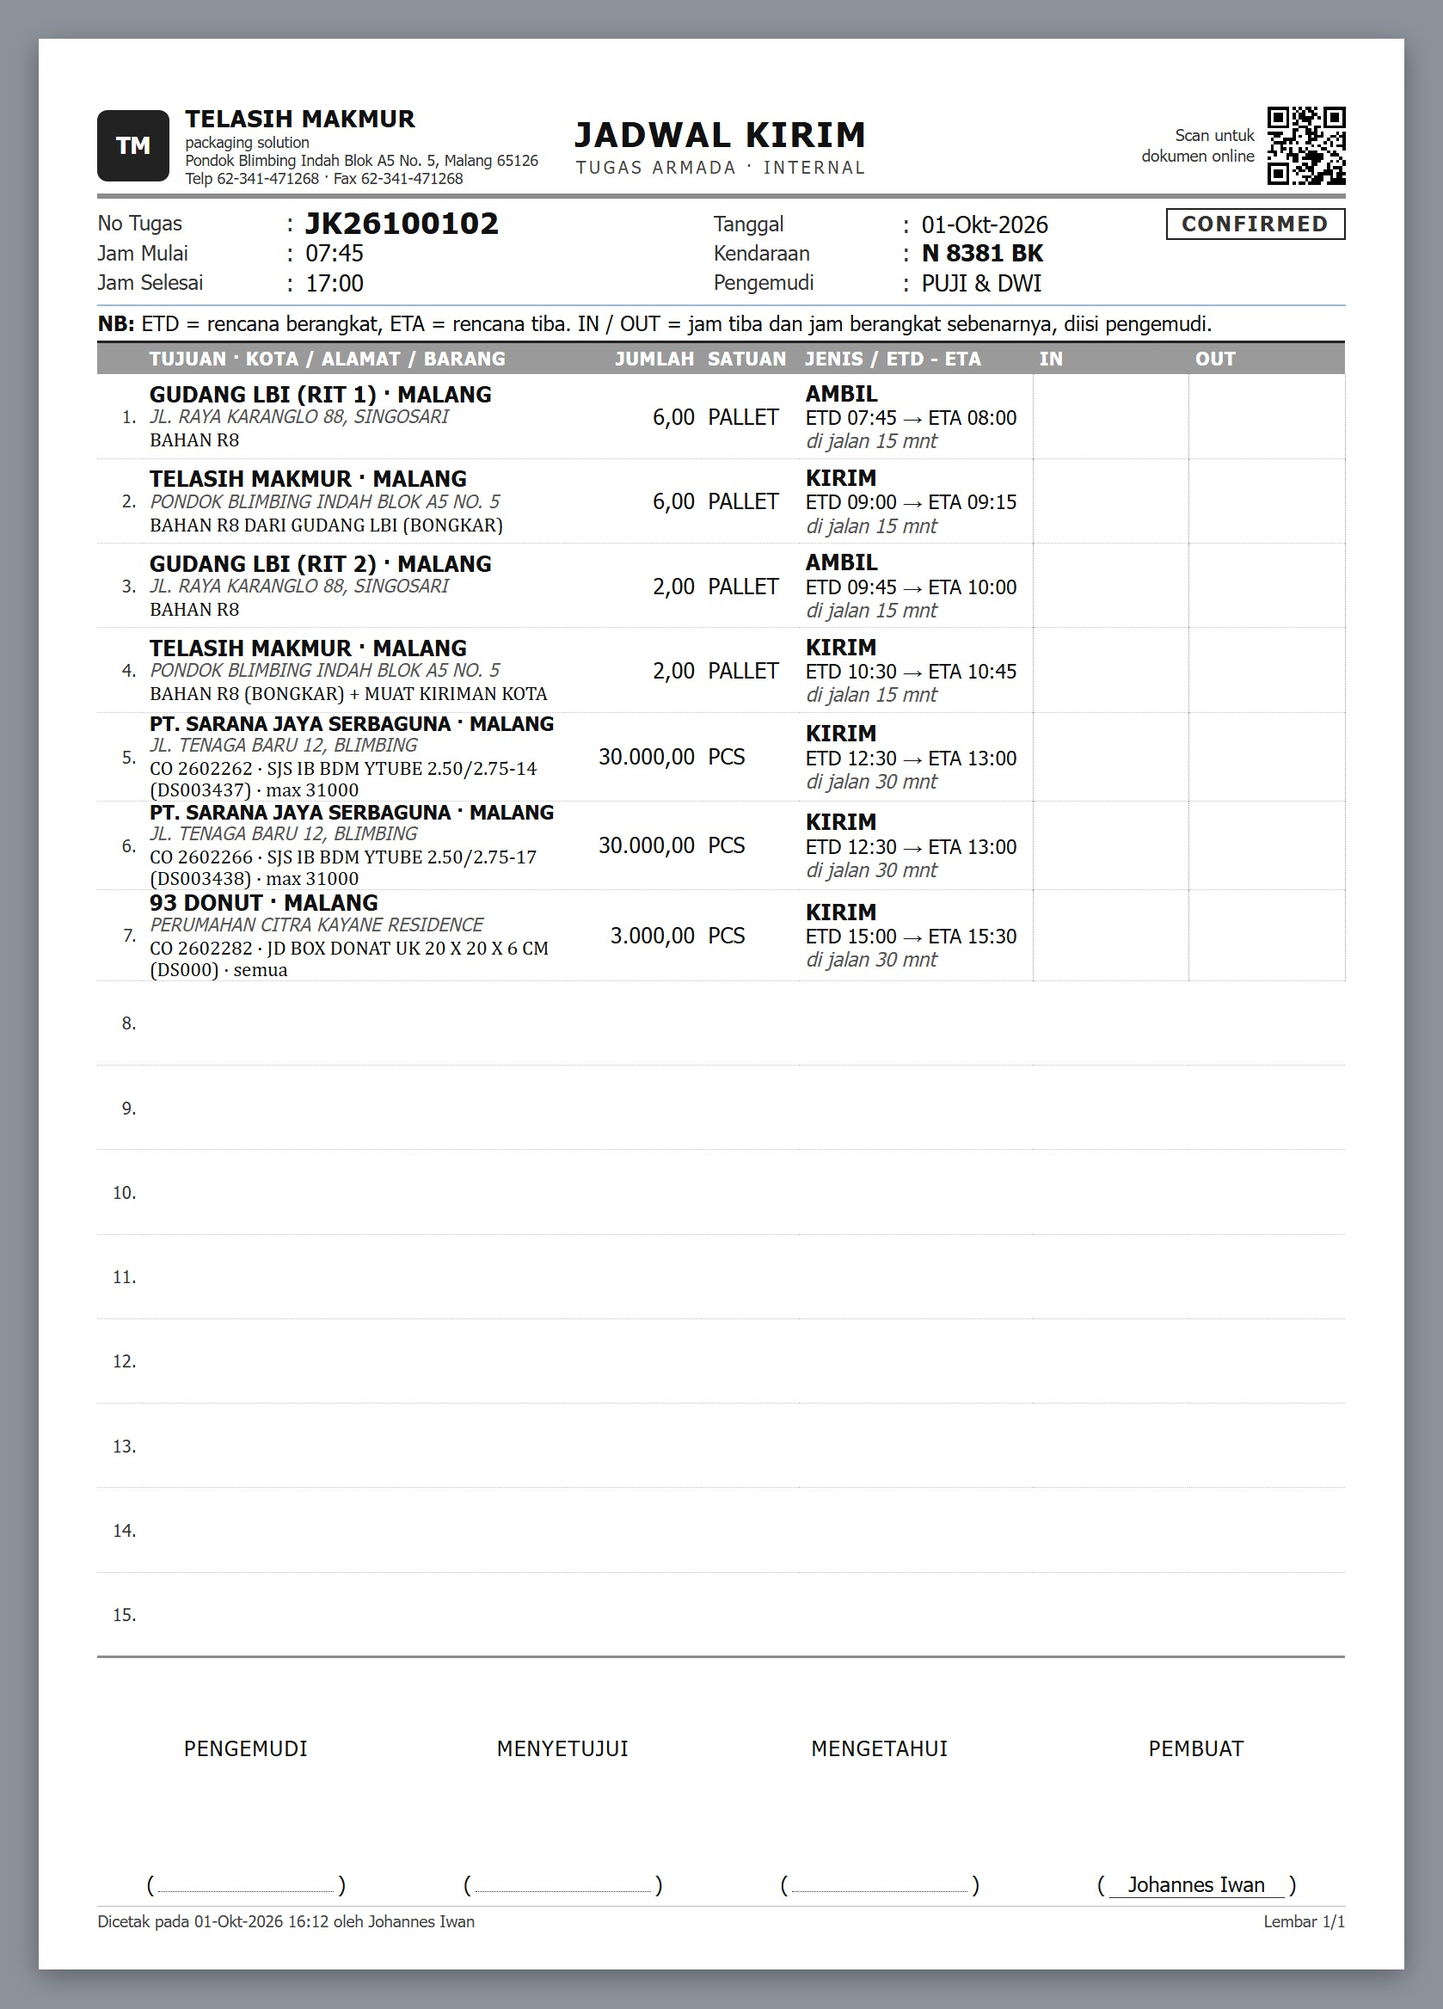
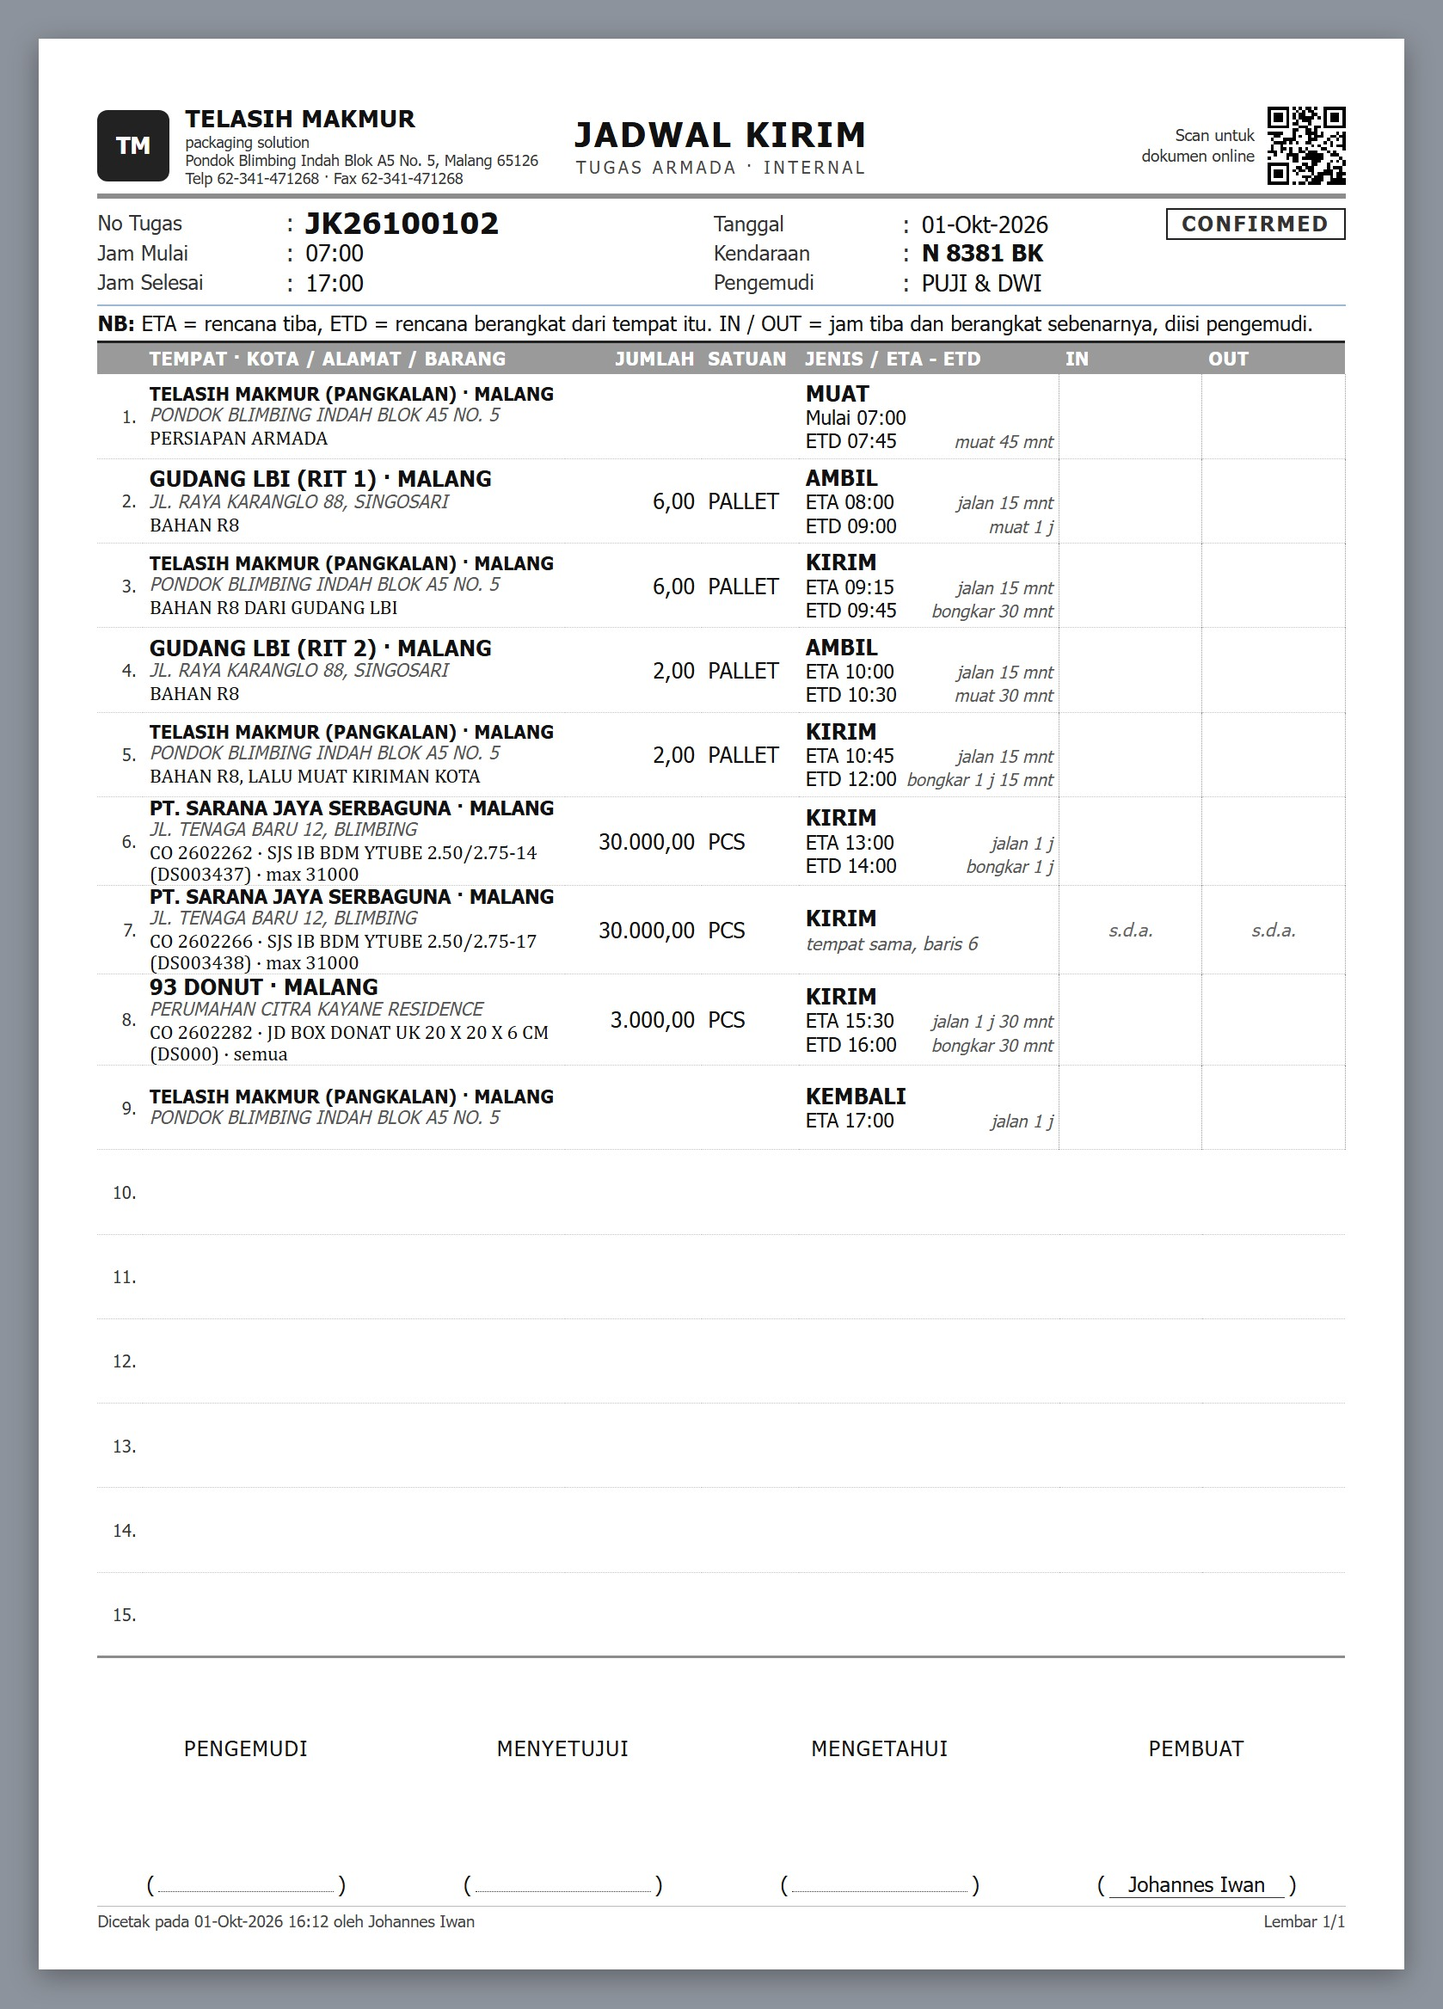
Print mockups: Jadwal Kirim time model — ETA and ETD per stop, base has only ETD, return only ETA
User correction 2026-10-01 (rulebook C.24): the first row is the base (loading, then ETD), every destination has an
ETA and an ETD (after unloading), the last row is the return (ETA). Road time and loading / unloading time are computed.
Extra goods at the same place print 'tempat sama' instead of repeating the times.

diff --git a/docs/mockups/print_doc/samples.js b/docs/mockups/print_doc/samples.js
@@ -83,34 +83,37 @@ const SAMPLES = {
             ],
         },
     },
-    // Alamat di contoh ini adalah data contoh (di aplikasi: alamat kirim customer / alamat supplier dari master).
+    // Alamat dan jam di contoh ini adalah data contoh (di aplikasi: alamat kirim customer / alamat supplier dari master).
+    // Baris pertama = pangkalan (hanya ETD), baris terakhir = kembali (hanya ETA); `same` = barang lain di tempat yang sama.
     JadwalKirim: {
-        data: {...PRINTED, number: 'JK26100101', date: '2026-10-01', status: 'CONFIRMED', start_time: '09:30', finish_time: '18:00', createdBy: 'Johannes Iwan',
+        data: {...PRINTED, number: 'JK26100101', date: '2026-10-01', status: 'CONFIRMED', start_time: '07:30', finish_time: '15:30', createdBy: 'Johannes Iwan',
             driver: 'TRIO & AGUNG', party: {name: 'N 8035 AB'},
             rows: [
-                {kind: 'AMBIL', etd: '09:30', eta: '10:15', place: 'GUDANG LBI', city: 'MALANG', address: 'JL. RAYA KARANGLO 88, SINGOSARI', item: 'BAHAN R8', qty: 2, unit: 'PALLET'},
-                {kind: 'KIRIM', etd: '10:45', eta: '12:30', place: 'PT SELATAN JADI JAYA', city: 'SIDOARJO', address: 'JL. RAYA PANJUNAN 8 SUKODONO', item: 'SJJ IB ROSSI FS GTZ-5S MF (12V5AH) DS001708', co_no: '2602377', qty: 3000, unit: 'PCS', note: 'max 3100'},
-                {kind: 'KIRIM', etd: '10:45', eta: '12:30', place: 'PT SELATAN JADI JAYA', city: 'SIDOARJO', address: 'JL. RAYA PANJUNAN 8 SUKODONO', item: 'SJJ IB ND NIPPONDENSO FS GTZ-5S MF (12V5AH) DS001639', co_no: '2602381', qty: 1000, unit: 'PCS', note: 'max 1100'},
-                {kind: 'AMBIL', etd: '10:45', eta: '12:30', place: 'PT SELATAN JADI JAYA', city: 'SIDOARJO', address: 'JL. RAYA PANJUNAN 8 SUKODONO', item: 'TAGIHAN & GIRO'},
-                {kind: 'KIRIM', etd: '13:30', eta: '14:00', place: 'GOLDEN (SUBKON PAK TASMAN)', city: 'PASURUAN', address: 'JL. RAYA PANDAAN KM 3', item: 'BARANG SUBKON', qty: 7840, unit: 'PCS', note: 'semua'}]},
-        alt: {...PRINTED, number: 'JK26100102', date: '2026-10-01', status: 'CONFIRMED', start_time: '07:45', finish_time: '17:00', createdBy: 'Johannes Iwan',
+                {kind: 'MUAT', start: '07:30', etd: '09:00', place: 'TELASIH MAKMUR (PANGKALAN)', city: 'MALANG', address: 'PONDOK BLIMBING INDAH BLOK A5 NO. 5', item: 'MUAT KIRIMAN PT SELATAN JADI JAYA'},
+                {kind: 'AMBIL', eta: '09:30', etd: '10:00', place: 'GUDANG LBI', city: 'MALANG', address: 'JL. RAYA KARANGLO 88, SINGOSARI', item: 'BAHAN R8', qty: 2, unit: 'PALLET'},
+                {kind: 'KIRIM', eta: '12:00', etd: '13:30', place: 'PT SELATAN JADI JAYA', city: 'SIDOARJO', address: 'JL. RAYA PANJUNAN 8 SUKODONO', item: 'SJJ IB ROSSI FS GTZ-5S MF (12V5AH) DS001708', co_no: '2602377', qty: 3000, unit: 'PCS', note: 'max 3100'},
+                {kind: 'KIRIM', same: true, place: 'PT SELATAN JADI JAYA', city: 'SIDOARJO', address: 'JL. RAYA PANJUNAN 8 SUKODONO', item: 'SJJ IB ND NIPPONDENSO FS GTZ-5S MF (12V5AH) DS001639', co_no: '2602381', qty: 1000, unit: 'PCS', note: 'max 1100'},
+                {kind: 'KEMBALI', eta: '15:30', place: 'TELASIH MAKMUR (PANGKALAN)', city: 'MALANG', address: 'PONDOK BLIMBING INDAH BLOK A5 NO. 5', item: 'BONGKAR BAHAN R8', qty: 2, unit: 'PALLET'}]},
+        alt: {...PRINTED, number: 'JK26100102', date: '2026-10-01', status: 'CONFIRMED', start_time: '07:00', finish_time: '17:00', createdBy: 'Johannes Iwan',
             driver: 'PUJI & DWI', party: {name: 'N 8381 BK'},
             rows: [
-                {kind: 'AMBIL', etd: '07:45', eta: '08:00', place: 'GUDANG LBI (RIT 1)', city: 'MALANG', address: 'JL. RAYA KARANGLO 88, SINGOSARI', item: 'BAHAN R8', qty: 6, unit: 'PALLET'},
-                {kind: 'KIRIM', etd: '09:00', eta: '09:15', place: 'TELASIH MAKMUR', city: 'MALANG', address: 'PONDOK BLIMBING INDAH BLOK A5 NO. 5', item: 'BAHAN R8 DARI GUDANG LBI (BONGKAR)', qty: 6, unit: 'PALLET'},
-                {kind: 'AMBIL', etd: '09:45', eta: '10:00', place: 'GUDANG LBI (RIT 2)', city: 'MALANG', address: 'JL. RAYA KARANGLO 88, SINGOSARI', item: 'BAHAN R8', qty: 2, unit: 'PALLET'},
-                {kind: 'KIRIM', etd: '10:30', eta: '10:45', place: 'TELASIH MAKMUR', city: 'MALANG', address: 'PONDOK BLIMBING INDAH BLOK A5 NO. 5', item: 'BAHAN R8 (BONGKAR) + MUAT KIRIMAN KOTA', qty: 2, unit: 'PALLET'},
-                {kind: 'KIRIM', etd: '12:30', eta: '13:00', place: 'PT. SARANA JAYA SERBAGUNA', city: 'MALANG', address: 'JL. TENAGA BARU 12, BLIMBING', item: 'SJS IB BDM YTUBE 2.50/2.75-14 (DS003437)', co_no: '2602262', qty: 30000, unit: 'PCS', note: 'max 31000'},
-                {kind: 'KIRIM', etd: '12:30', eta: '13:00', place: 'PT. SARANA JAYA SERBAGUNA', city: 'MALANG', address: 'JL. TENAGA BARU 12, BLIMBING', item: 'SJS IB BDM YTUBE 2.50/2.75-17 (DS003438)', co_no: '2602266', qty: 30000, unit: 'PCS', note: 'max 31000'},
-                {kind: 'KIRIM', etd: '15:00', eta: '15:30', place: '93 DONUT', city: 'MALANG', address: 'PERUMAHAN CITRA KAYANE RESIDENCE', item: 'JD BOX DONAT UK 20 X 20 X 6 CM (DS000)', co_no: '2602282', qty: 3000, unit: 'PCS', note: 'semua'}]},
+                {kind: 'MUAT', start: '07:00', etd: '07:45', place: 'TELASIH MAKMUR (PANGKALAN)', city: 'MALANG', address: 'PONDOK BLIMBING INDAH BLOK A5 NO. 5', item: 'PERSIAPAN ARMADA'},
+                {kind: 'AMBIL', eta: '08:00', etd: '09:00', place: 'GUDANG LBI (RIT 1)', city: 'MALANG', address: 'JL. RAYA KARANGLO 88, SINGOSARI', item: 'BAHAN R8', qty: 6, unit: 'PALLET'},
+                {kind: 'KIRIM', eta: '09:15', etd: '09:45', place: 'TELASIH MAKMUR (PANGKALAN)', city: 'MALANG', address: 'PONDOK BLIMBING INDAH BLOK A5 NO. 5', item: 'BAHAN R8 DARI GUDANG LBI', qty: 6, unit: 'PALLET'},
+                {kind: 'AMBIL', eta: '10:00', etd: '10:30', place: 'GUDANG LBI (RIT 2)', city: 'MALANG', address: 'JL. RAYA KARANGLO 88, SINGOSARI', item: 'BAHAN R8', qty: 2, unit: 'PALLET'},
+                {kind: 'KIRIM', eta: '10:45', etd: '12:00', place: 'TELASIH MAKMUR (PANGKALAN)', city: 'MALANG', address: 'PONDOK BLIMBING INDAH BLOK A5 NO. 5', item: 'BAHAN R8, LALU MUAT KIRIMAN KOTA', qty: 2, unit: 'PALLET'},
+                {kind: 'KIRIM', eta: '13:00', etd: '14:00', place: 'PT. SARANA JAYA SERBAGUNA', city: 'MALANG', address: 'JL. TENAGA BARU 12, BLIMBING', item: 'SJS IB BDM YTUBE 2.50/2.75-14 (DS003437)', co_no: '2602262', qty: 30000, unit: 'PCS', note: 'max 31000'},
+                {kind: 'KIRIM', same: true, place: 'PT. SARANA JAYA SERBAGUNA', city: 'MALANG', address: 'JL. TENAGA BARU 12, BLIMBING', item: 'SJS IB BDM YTUBE 2.50/2.75-17 (DS003438)', co_no: '2602266', qty: 30000, unit: 'PCS', note: 'max 31000'},
+                {kind: 'KIRIM', eta: '15:30', etd: '16:00', place: '93 DONUT', city: 'MALANG', address: 'PERUMAHAN CITRA KAYANE RESIDENCE', item: 'JD BOX DONAT UK 20 X 20 X 6 CM (DS000)', co_no: '2602282', qty: 3000, unit: 'PCS', note: 'semua'},
+                {kind: 'KEMBALI', eta: '17:00', place: 'TELASIH MAKMUR (PANGKALAN)', city: 'MALANG', address: 'PONDOK BLIMBING INDAH BLOK A5 NO. 5'}]},
         dev: {
             title: 'Perubahan terhadap format sekarang (docs/attachments/expedisi.jpg, tabel Excel)',
             marks: [[1, '[data-k=number]', -5, 0], [2, '[data-k=party]', -5, 0], [3, 'thead th:nth-child(2)', -1, -2.5], [4, 'thead th:nth-child(5)', 0, -2.5], [5, 'thead th:nth-child(6)', 0, -2.5], [6, '.sign', -5, 0]],
             legend: [
                 '<b>Satu lembar per tugas armada</b> (di Excel: banyak tugas dalam satu halaman). Diberi nomor tugas supaya bisa dilacak; format nomor menunggu keputusan.',
                 '<b>No Pol dan Pengemudi</b> masuk blok kanan; Jam Mulai / Jam Selesai di kiri. Blok atas hanya 3 baris, sisanya dipakai untuk tinggi baris.',
-                '<b>Tiga baris per perhentian</b>: nama tujuan / tempat ambil + kota, alamat, lalu barang + No CO.',
-                '<b>Jenis</b> AMBIL atau KIRIM, <b>ETD / ETA</b> (rencana berangkat dan tiba) dan <b>lama di jalan</b>, ditumpuk tiga baris di satu kolom.',
+                '<b>Tiga baris per perhentian</b>: nama tempat + kota, alamat, lalu barang + No CO. Barang lain di tempat yang sama: "tempat sama".',
+                '<b>Jenis + ETA / ETD</b> per perhentian: pangkalan hanya ETD, tujuan punya ETA dan ETD, kembali hanya ETA. Lama di jalan dan lama muat / bongkar dihitung otomatis.',
                 '<b>IN / OUT</b> kolom lebar dan tinggi untuk tulis tangan (jam sebenarnya).',
                 '<b>Tanda tangan</b> dari kiri ke kanan: Pengemudi, Menyetujui, Mengetahui, Pembuat.',
             ],

diff --git a/docs/mockups/print_doc/documents.js b/docs/mockups/print_doc/documents.js
@@ -113,12 +113,11 @@ PrintDoc.register(class PurchaseOrder extends PrintDoc {
 });
 
 // Acuan kertas: docs/attachments/expedisi.jpg (Jadwal Kirim; satu lembar per tugas armada).
-// Satu baris = satu perhentian, TIGA baris teks: nama tujuan / tempat ambil + kota, alamat, lalu barang + No CO.
-// ETD = rencana berangkat menuju perhentian itu, ETA = rencana tiba; selisihnya = lama di jalan (dihitung). Ketiganya
-// ditumpuk di kolom JENIS: AMBIL / KIRIM, ETD - ETA, lama di jalan (keputusan user 2026-10-01: rencana lebih matang).
-// IN / OUT = kenyataan, ditulis tangan pengemudi.
-// Ruang kosong blok atas (3 baris field saja) dan zona penutup dipindah ke tinggi baris, dan kolom barang dihapus,
-// supaya kolom tulis tangan IN / OUT besar (keputusan user 2026-10-01).
+// Satu baris = satu perhentian, TIGA baris teks: nama tempat + kota, alamat, lalu barang + No CO.
+// Model waktu (koreksi user 2026-10-01): tiap perhentian punya ETA (rencana tiba) dan ETD (rencana berangkat dari
+// tempat itu). Baris pertama = pangkalan: hanya ETD (mulai muat -> berangkat). Baris terakhir = kembali: hanya ETA.
+// Dari situ dihitung dua durasi: di jalan = ETA perhentian ini - ETD perhentian sebelumnya; di tempat (muat /
+// bongkar) = ETD - ETA. IN / OUT = jam tiba dan berangkat sebenarnya, ditulis tangan pengemudi (IN ~ ETA, OUT ~ ETD).
 PrintDoc.register(class JadwalKirim extends PrintDoc {
     static title = 'JADWAL KIRIM';
     static subtitle = 'Tugas Armada &middot; Internal';
@@ -129,24 +128,39 @@ PrintDoc.register(class JadwalKirim extends PrintDoc {
     ];
     static partyLabel = 'Kendaraan';
     static side = {key: 'driver', label: 'Pengemudi'};
-    static nb = '<b>NB:</b>&nbsp;ETD = rencana berangkat, ETA = rencana tiba. IN / OUT = jam tiba dan jam berangkat sebenarnya, diisi pengemudi.';
-    static nameLabel = 'TUJUAN &middot; KOTA / ALAMAT / BARANG';
-    static extra = [{key: 'plan', label: 'JENIS / ETD - ETA', width: 36, type: 'html'}, {key: 'in', label: 'IN', width: 24, hand: true}, {key: 'out', label: 'OUT', width: 24, hand: true}];
+    static nb = '<b>NB:</b>&nbsp;ETA = rencana tiba, ETD = rencana berangkat dari tempat itu. IN / OUT = jam tiba dan berangkat sebenarnya, diisi pengemudi.';
+    static nameLabel = 'TEMPAT &middot; KOTA / ALAMAT / BARANG';
+    static extra = [{key: 'plan', label: 'JENIS / ETA - ETD', width: 40, type: 'html'}, {key: 'in', label: 'IN', width: 22, hand: true}, {key: 'out', label: 'OUT', width: 22, hand: true}];
     static receivers = [['Pengemudi', '']];
     static infoRows = 3;
     static tailHeight = 2;
     static rowHeight = 13;
     static rows = {a5: 5, a4: 15};
-    // Lama di jalan dari dua jam 'HH:MM' -> '45 mnt' / '1 j 45 mnt'.
-    static road(etd, eta) {
-        const min = t => { const [h, m] = t.split(':'); return h * 60 + +m; }, d = min(eta) - min(etd), h = Math.floor(d / 60), m = d % 60;
+    static WORK = {MUAT: 'muat', AMBIL: 'muat', KIRIM: 'bongkar'};     // pekerjaan di tempat, per jenis perhentian
+
+    // Selisih dua jam 'HH:MM' -> '45 mnt' / '2 j' / '1 j 30 mnt'.
+    static span(from, to) {
+        const min = t => { const [h, m] = t.split(':'); return h * 60 + +m; }, d = min(to) - min(from), h = Math.floor(d / 60), m = d % 60;
         return [h && `${h} j`, m && `${m} mnt`].filter(Boolean).join(' ') || '0 mnt';
     }
 
+    // Kolom rencana: baris 1 jenis; baris 2 tiba (+ lama di jalan); baris 3 berangkat (+ lama muat / bongkar).
+    static plan(r, prevEtd, sameAs) {
+        const line = (l, d) => `<span><i>${l}</i>${d ? `<em>${d}</em>` : ''}</span>`, work = JadwalKirim.WORK[r.kind];
+        if (sameAs) return `<b>${esc(r.kind)}</b>` + line(`<u>tempat sama, baris ${sameAs}</u>`);
+        const arrive = r.eta ? line(`ETA ${esc(r.eta)}`, prevEtd && `jalan ${JadwalKirim.span(prevEtd, r.eta)}`) : line(`Mulai ${esc(r.start)}`);
+        const leave = r.etd ? line(`ETD ${esc(r.etd)}`, `${work} ${JadwalKirim.span(r.eta ?? r.start, r.etd)}`) : '';
+        return `<b>${esc(r.kind)}</b>${arrive}${leave}`;
+    }
+
     constructor(data) {
-        super({...data, rows: data.rows.map(r => ({...r, name: [r.place, r.city].filter(Boolean).join(' · '), sub: r.address,
-            sub2: [r.co_no && 'CO ' + r.co_no, r.item, r.note].filter(Boolean).join(' · '),
-            plan: `<b>${esc(r.kind)}</b><span>ETD ${esc(r.etd)} &rarr; ETA ${esc(r.eta)}</span><span>di jalan ${JadwalKirim.road(r.etd, r.eta)}</span>`}))});
+        let prevEtd = null, stopRow = 0;
+        super({...data, rows: data.rows.map((r, i) => {
+            const plan = JadwalKirim.plan(r, prevEtd, r.same ? stopRow : 0);
+            if (!r.same) { stopRow = i + 1; prevEtd = r.etd ?? prevEtd; }
+            return {...r, name: [r.place, r.city].filter(Boolean).join(' · '), sub: r.address, plan,
+                sub2: [r.co_no && 'CO ' + r.co_no, r.item, r.note].filter(Boolean).join(' · '), ...(r.same ? {in: 's.d.a.', out: 's.d.a.'} : {})};
+        })});
     }
 });
 

diff --git a/docs/mockups/print_doc/printdoc.css b/docs/mockups/print_doc/printdoc.css
@@ -65,11 +65,14 @@ table.items{width:100%;border-collapse:collapse;border-top:.5mm solid #222;borde
    1 tujuan + kota = Tahoma tebal; 2 alamat = Tahoma miring abu-abu; 3 barang = huruf berkait (Cambria) tegak hitam. */
 .doc-JadwalKirim .n1{font-weight:700;font-size:9.5pt}
 .doc-JadwalKirim .n2{font-style:italic;color:#555}
-/* Kolom JENIS / ETA / ETD: tiga baris bertumpuk */
+/* Kolom JENIS / ETA - ETD: tiga baris bertumpuk; jam di kiri, lama (jalan / muat / bongkar) di kanan */
 .doc-JadwalKirim td[data-c=plan]{white-space:normal;line-height:1.2}
 .doc-JadwalKirim td[data-c=plan] b{display:block;font-weight:700;font-size:9.5pt}
-.doc-JadwalKirim td[data-c=plan] span{display:block;font-size:8.5pt;white-space:nowrap}
-.doc-JadwalKirim td[data-c=plan] span+span{color:#555;font-style:italic}
+.doc-JadwalKirim td[data-c=plan] span{display:flex;justify-content:space-between;align-items:baseline;gap:1mm;font-size:8.5pt;white-space:nowrap}
+.doc-JadwalKirim td[data-c=plan] i{font-style:normal}
+.doc-JadwalKirim td[data-c=plan] em{font-size:7.5pt;font-style:italic;color:#555}
+.doc-JadwalKirim td[data-c=plan] u{text-decoration:none;font-style:italic;color:#555;font-size:8pt}
+.doc-JadwalKirim td.hd{text-align:center;color:#666;font-size:8pt;font-style:italic}
 .doc-JadwalKirim .n3{font-family:Cambria,Georgia,"Times New Roman",serif;font-size:8.5pt;color:#111}
 
 /* 5. Zona penutup: catatan kiri, kotak total kanan (tinggi tetap) */

diff --git a/docs/globaluserrules.md b/docs/globaluserrules.md
@@ -209,8 +209,10 @@
     perhentian, **tiga baris teks**: nama tujuan / tempat ambil + kota, alamat, lalu barang yang dikirim / diambil (+ No
     CO). Ruang kosong blok atas dipakai untuk tinggi baris, dan **kolom tulis tangan IN / OUT dibuat besar**. Tiga
     baris itu **dibedakan gaya dan jenis hurufnya**: tujuan + kota tebal, alamat miring abu-abu, barang huruf berkait.
-    Rencana memakai istilah **ETD (rencana berangkat) dan ETA (rencana tiba)**, ditumpuk di kolom Jenis bersama AMBIL /
-    KIRIM dan **lama di jalan** (ETA - ETD); IN / OUT = jam sebenarnya, tulis tangan.
+    **Model waktu Jadwal Kirim (koreksi user 2026-10-01):** tiap perhentian punya **ETA (rencana tiba) dan ETD (rencana
+    berangkat dari tempat itu)**. Baris pertama = pangkalan, **hanya ETD** (mulai muat sampai berangkat); baris terakhir
+    = kembali ke pangkalan, hanya ETA. Sistem menghitung **lama di jalan** (ETA - ETD perhentian sebelumnya) dan **lama
+    muat / bongkar** (ETD - ETA). Jenis + ETA + ETD ditumpuk di satu kolom; IN / OUT = jam sebenarnya, tulis tangan.
 25. **Form ProDev berlatar putih — user 2026-10-01:** workbench Imposition (dulu gelap/navy) memakai **latar putih** seperti
     layar lain, warnanya lewat token tema DevLib (bukan hex). Tata letak dan isi tidak berubah; area gambar berlatar abu muda
     supaya lembar cetak (putih) tetap terlihat. Pratinjau & cetak Master Card tidak berubah.
